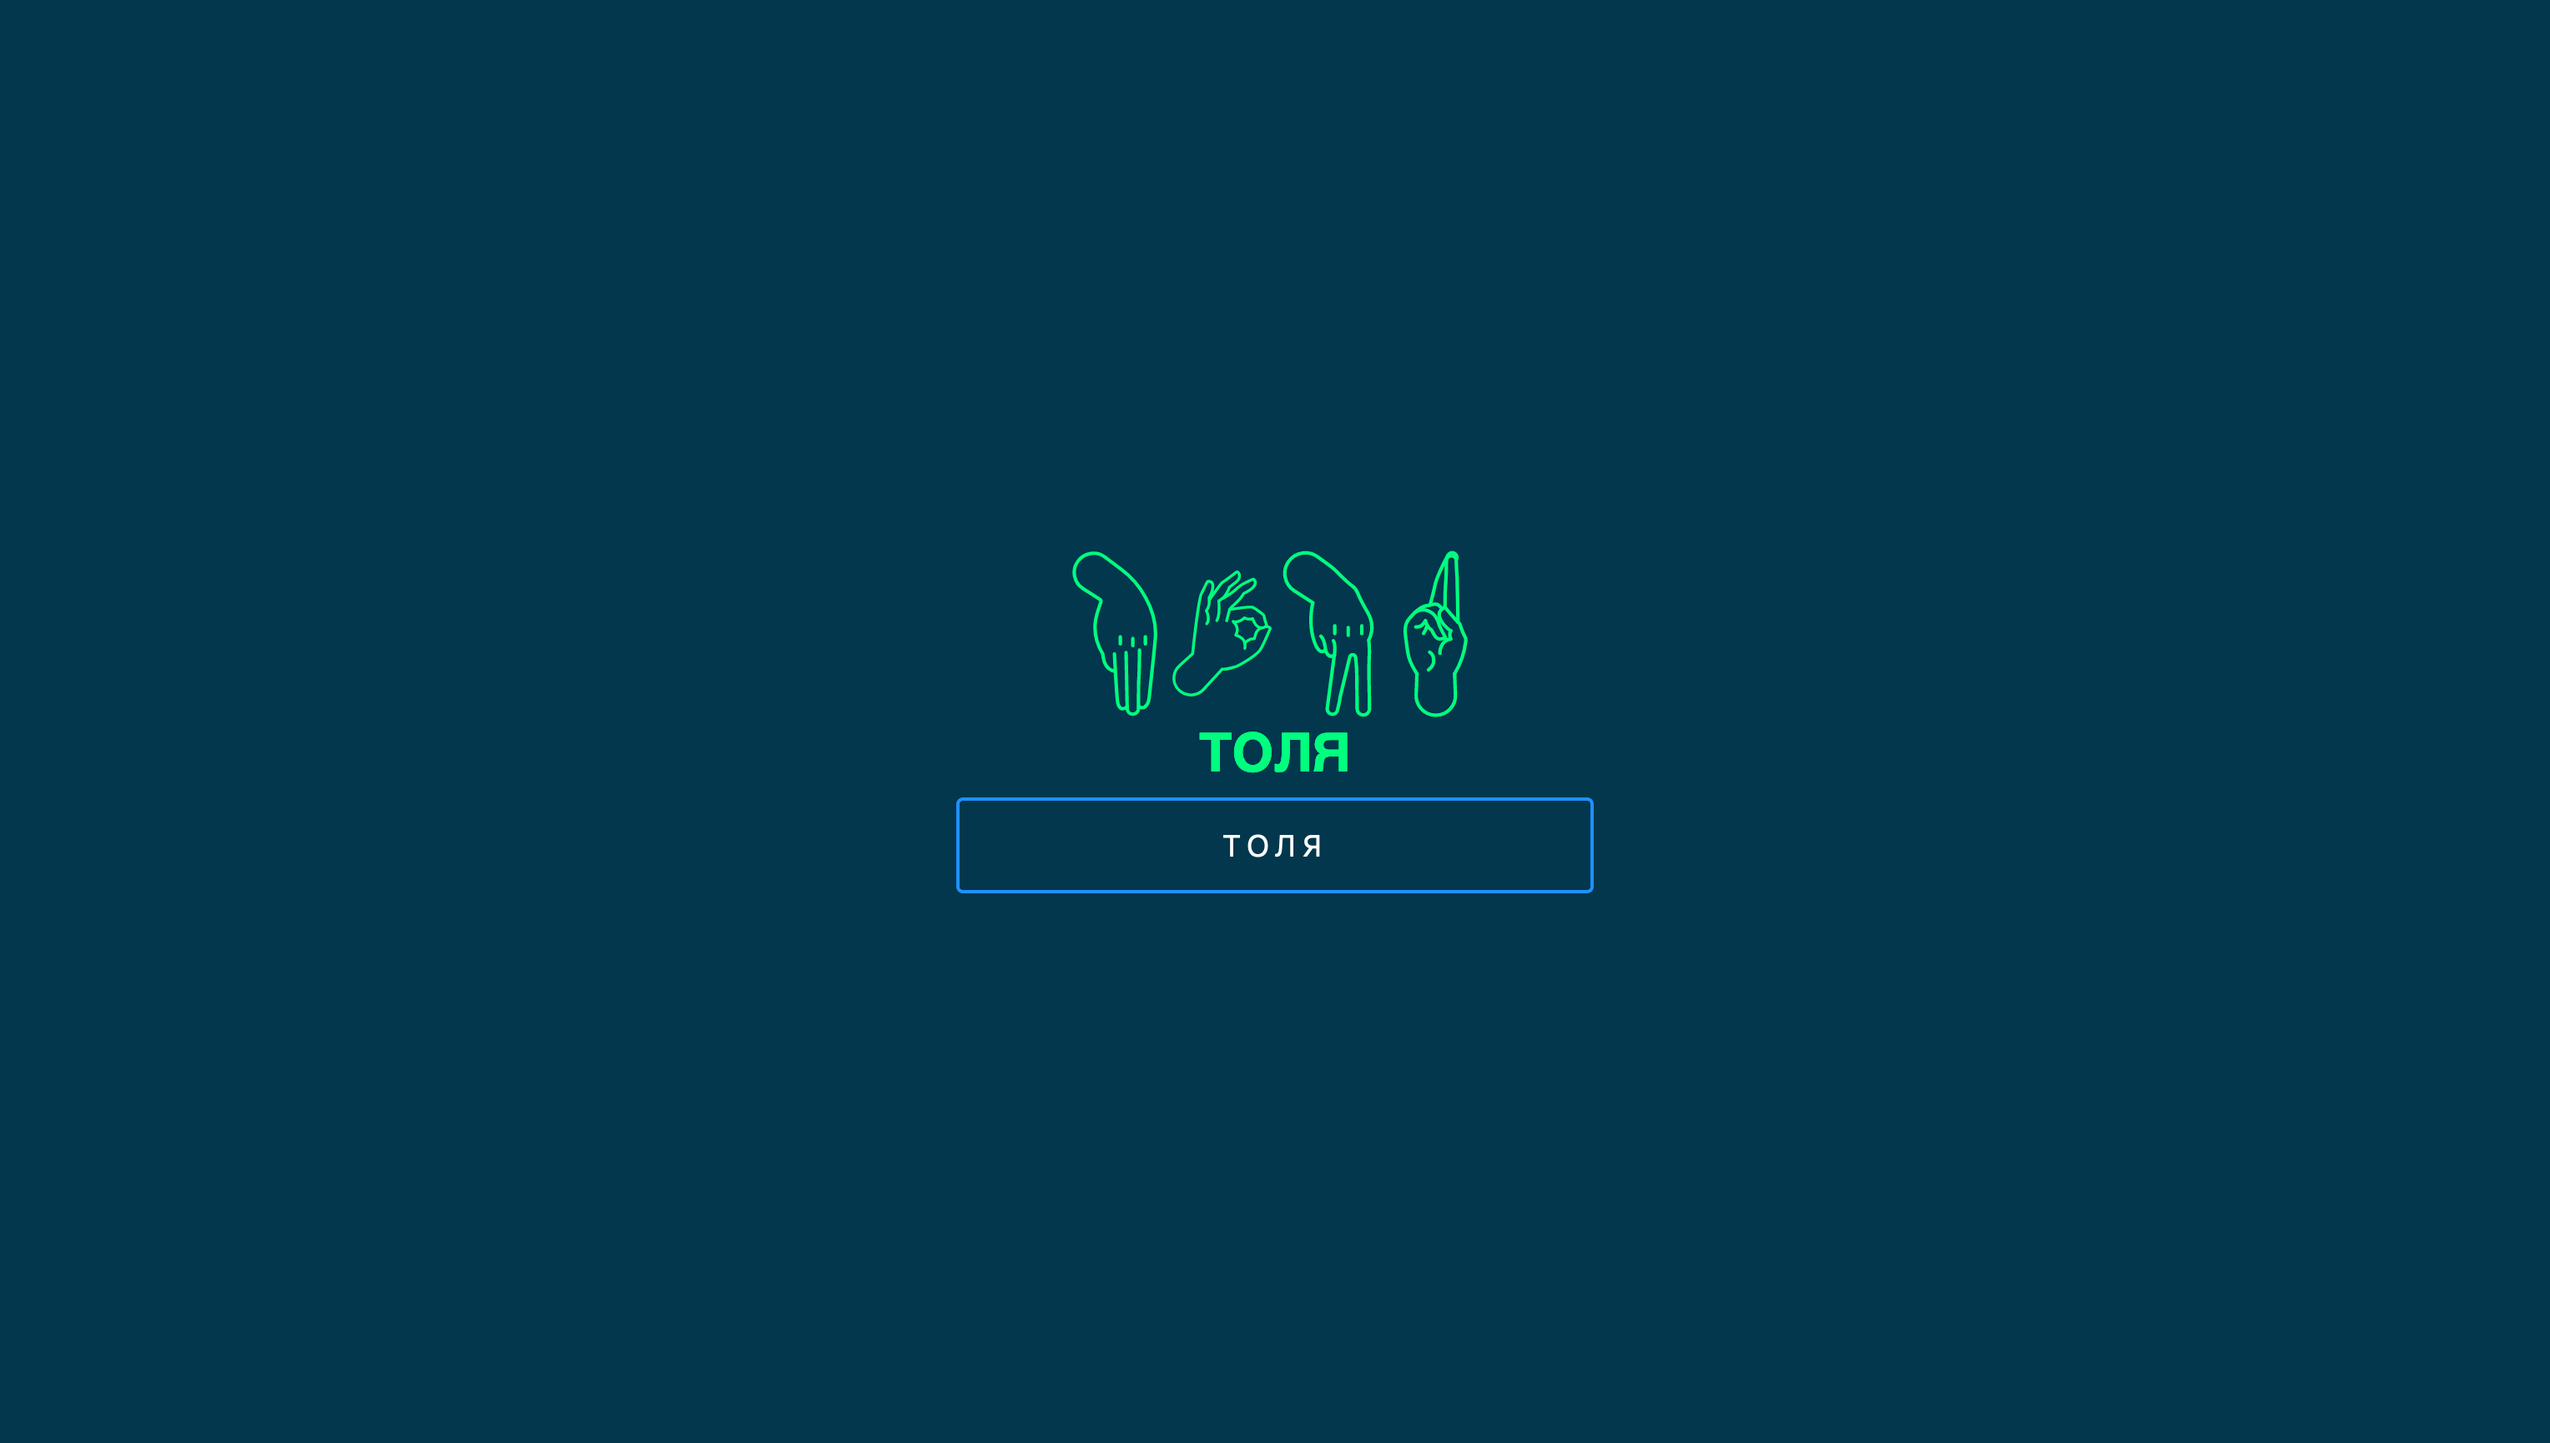
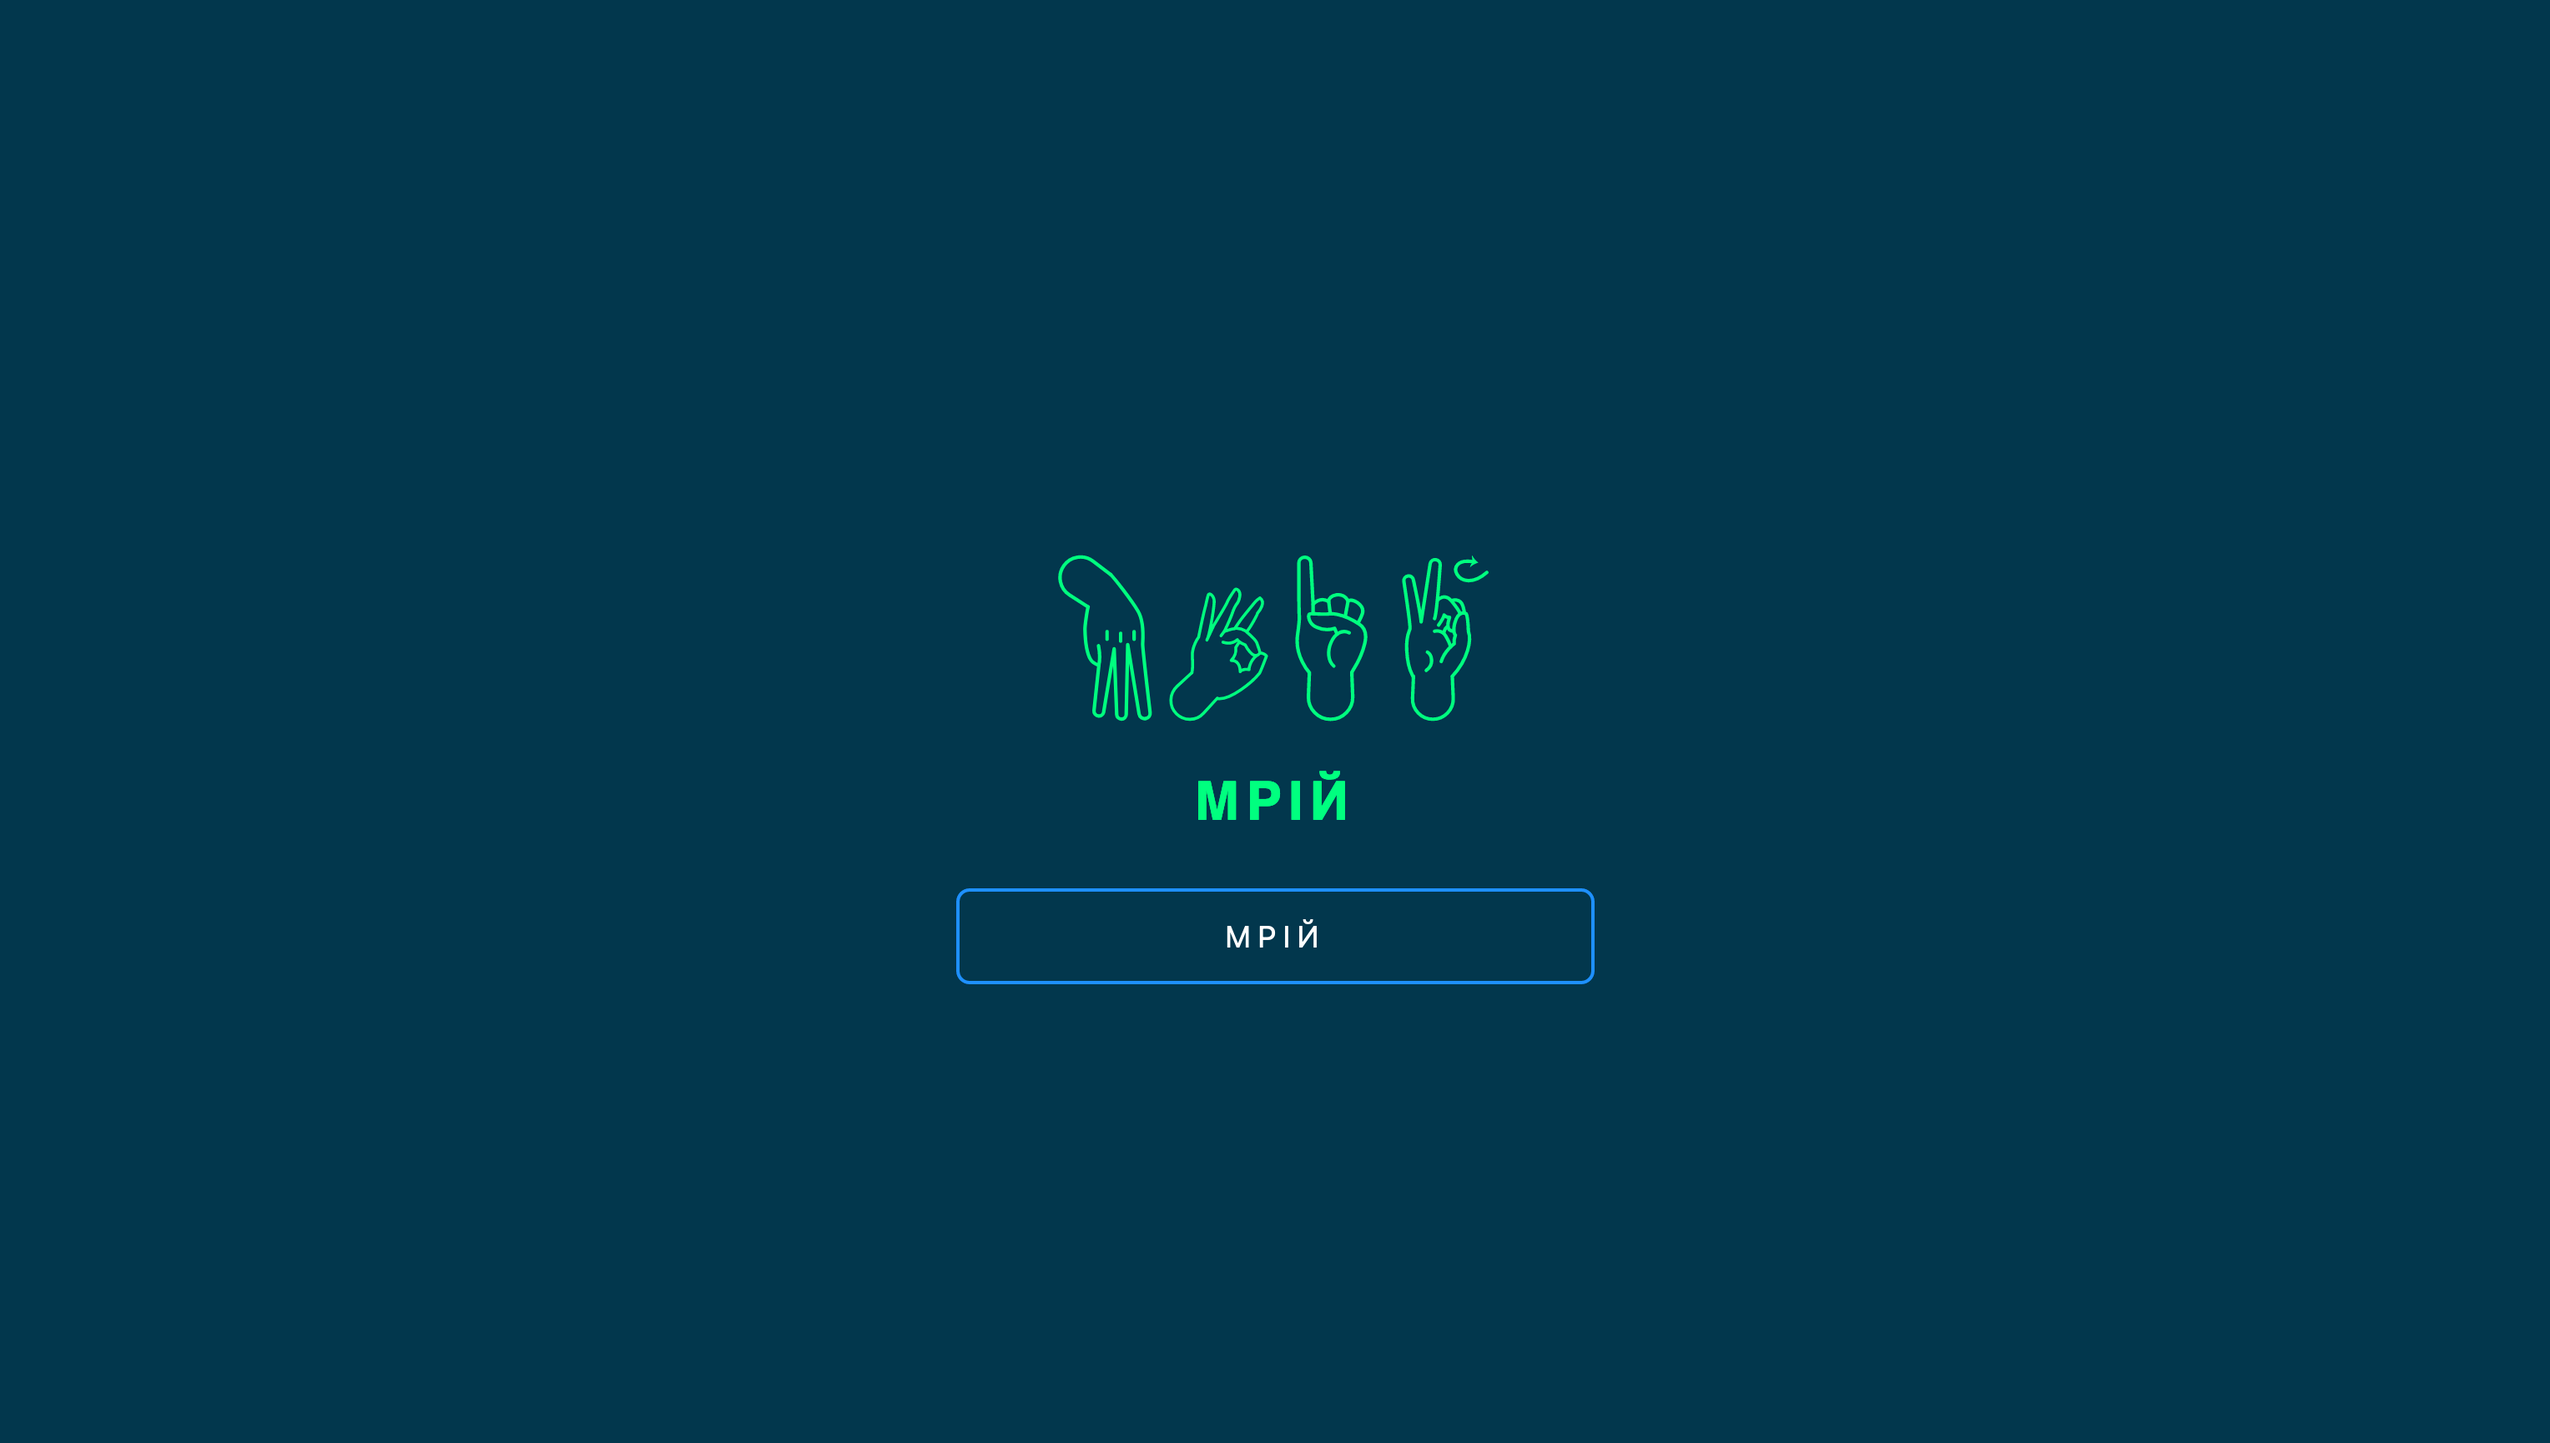
v1.0.8

Changed region(s): [[0.4041, 0.3746, 0.5906, 0.5931], [0.4663, 0.6243, 0.5285, 0.6555], [0.373, 0.5931, 0.4041, 0.6243]]

diff --git a/css/style.css b/css/style.css
@@ -9,24 +9,33 @@ body {
     padding: 0;
 }
 
-html,
-body {
-    font: normal 16px/1.5 sans-serif;
-    height: 100vh;
+html {
+    font-size: 16px;
 }
 
 body {
-    align-items: center;
-    background-color: #02374d;
-    display: grid;
+    background: #022838;
+    font: normal 1rem/1.5 sans-serif;
+    overflow: hidden;
     height: 100vh;
-    place-items: center;
-    justify-content: center;
+}
+
+main {
+    left: 50%;
+    position: absolute;
+    transform: translate(-50%, -50%);
+    top: 50%;
 }
 
 h1 {
+    align-items: center;
     color: #00ff7f;
+    display: flex;
+    gap: 8px;
     font-size: 2rem;
+    height: 100px;
+    letter-spacing: 4px;
+    justify-content: center;
     text-align: center;
     text-transform: uppercase;
 }
@@ -34,24 +43,24 @@ h1 {
 #deaf {
     background-color: transparent;
     border: 2px solid dodgerblue;
-    border-radius: 4px;
+    border-radius: 8px;
     font-size: 18px;
     letter-spacing: 4px;
+    left: 50%;
     padding: 16px 24px;
+    position: absolute;
     text-align: center;
     text-transform: uppercase;
+    transform: translateX(-50%);
 }
 
-h1#sign {
-    align-items: center;
-    display: flex;
-    gap: 4px;
-    justify-content: center;
+#deaf::placeholder {
+    color: #00ff7f;
 }
 
 h1#sign s {
     background-color: transparent;
-    background-position: center;
+    background-position: center bottom;
     background-repeat: no-repeat;
     background-size: contain;
     font-size: 0;
@@ -60,134 +69,134 @@ h1#sign s {
     width: 60px;
 }
 
-[data-s=s_1_a] {
+[data-sign=s_1_a] {
     background-image: url(/images/alphabet/s_1_a.svg);
 }
 
-[data-s=s_2_b] {
+[data-sign=s_2_b] {
     background-image: url(/images/alphabet/s_2_b.svg);
 }
 
-[data-s=s_3_v] {
+[data-sign=s_3_v] {
     background-image: url(/images/alphabet/s_3_v.svg);
 }
 
-[data-s=s_4_g] {
+[data-sign=s_4_g] {
     background-image: url(/images/alphabet/s_4_g.svg);
 }
 
-[data-s=s_5_g] {
+[data-sign=s_5_g] {
     background-image: url(/images/alphabet/s_5_g.svg);
 }
 
-[data-s=s_6_d] {
+[data-sign=s_6_d] {
     background-image: url(/images/alphabet/s_6_d.svg);
 }
 
-[data-s=s_7_e] {
+[data-sign=s_7_e] {
     background-image: url(/images/alphabet/s_7_e.svg);
 }
 
-[data-s=s_8_e] {
+[data-sign=s_8_e] {
     background-image: url(/images/alphabet/s_8_e.svg);
 }
 
-[data-s=s_9_zh] {
+[data-sign=s_9_zh] {
     background-image: url(/images/alphabet/s_9_zh.svg);
 }
 
-[data-s=s_10_z] {
+[data-sign=s_10_z] {
     background-image: url(/images/alphabet/s_10_z.svg);
 }
 
-[data-s=s_11_ji] {
+[data-sign=s_11_ji] {
     background-image: url(/images/alphabet/s_11_ji.svg);
 }
 
-[data-s=s_12_i] {
+[data-sign=s_12_i] {
     background-image: url(/images/alphabet/s_12_i.svg);
 }
 
-[data-s=s_13_ii] {
+[data-sign=s_13_ii] {
     background-image: url(/images/alphabet/s_13_ii.svg);
 }
 
-[data-s=s_14_yi] {
+[data-sign=s_14_yi] {
     background-image: url(/images/alphabet/s_14_yi.svg);
 }
 
-[data-s=s_15_k] {
+[data-sign=s_15_k] {
     background-image: url(/images/alphabet/s_15_k.svg);
 }
 
-[data-s=s_16_l] {
+[data-sign=s_16_l] {
     background-image: url(/images/alphabet/s_16_l.svg);
 }
 
-[data-s=s_17_m] {
+[data-sign=s_17_m] {
     background-image: url(/images/alphabet/s_17_m.svg);
 }
 
-[data-s=s_18_n] {
+[data-sign=s_18_n] {
     background-image: url(/images/alphabet/s_18_n.svg);
 }
 
-[data-s=s_19_o] {
+[data-sign=s_19_o] {
     background-image: url(/images/alphabet/s_19_o.svg);
 }
 
-[data-s=s_20_p] {
+[data-sign=s_20_p] {
     background-image: url(/images/alphabet/s_20_p.svg);
 }
 
-[data-s=s_21_r] {
+[data-sign=s_21_r] {
     background-image: url(/images/alphabet/s_21_r.svg);
 }
 
-[data-s=s_22_s] {
+[data-sign=s_22_s] {
     background-image: url(/images/alphabet/s_22_s.svg);
 }
 
-[data-s=s_23_t] {
+[data-sign=s_23_t] {
     background-image: url(/images/alphabet/s_23_t.svg);
 }
 
-[data-s=s_24_u] {
+[data-sign=s_24_u] {
     background-image: url(/images/alphabet/s_24_u.svg);
 }
 
-[data-s=s_25_f] {
+[data-sign=s_25_f] {
     background-image: url(/images/alphabet/s_25_f.svg);
 }
 
-[data-s=s_26_h] {
+[data-sign=s_26_h] {
     background-image: url(/images/alphabet/s_26_h.svg);
 }
 
-[data-s=s_27_tc] {
+[data-sign=s_27_tc] {
     background-image: url(/images/alphabet/s_27_tc.svg);
 }
 
-[data-s=s_28_ch] {
+[data-sign=s_28_ch] {
     background-image: url(/images/alphabet/s_28_ch.svg);
 }
 
-[data-s=s_29_sh] {
+[data-sign=s_29_sh] {
     background-image: url(/images/alphabet/s_29_sh.svg);
 }
 
-[data-s=s_30_shc] {
+[data-sign=s_30_shc] {
     background-image: url(/images/alphabet/s_30_shc.svg);
 }
 
-[data-s=s_31_y] {
+[data-sign=s_31_y] {
     background-image: url(/images/alphabet/s_31_y.svg);
 }
 
-[data-s=s_32_ja] {
+[data-sign=s_32_ja] {
     background-image: url(/images/alphabet/s_32_ja.svg);
 }
 
-[data-s=s_33_mz] {
+[data-sign=s_33_mz] {
     background-image: url(/images/alphabet/s_33_mz.svg);
 }

diff --git a/index.html b/index.html
@@ -12,13 +12,13 @@
 <body>
     <main>
         <h1 id="sign">
-            <s data-s="s_23_t">Т</s>
-            <s data-s="s_19_o">О</s>
-            <s data-s="s_16_l">Л</s>
-            <s data-s="s_32_ja">Я</s>
+            <s data-sign="s_17_m">М</s>
+            <s data-sign="s_21_r">Р</s>
+            <s data-sign="s_12_i">І</s>
+            <s data-sign="s_14_yi">Й</s>
         </h1>
-        <h1 id="text">ТОЛЯ</h1>
-        <input type="text" id="deaf" placeholder="ТОЛЯ" oninput="getVal()">
+        <h1 id="text">МРІЙ</h1>
+        <input type="text" id="deaf" placeholder="МРІЙ" oninput="getVal()">
     </main>
     <script>
         function getVal() {
